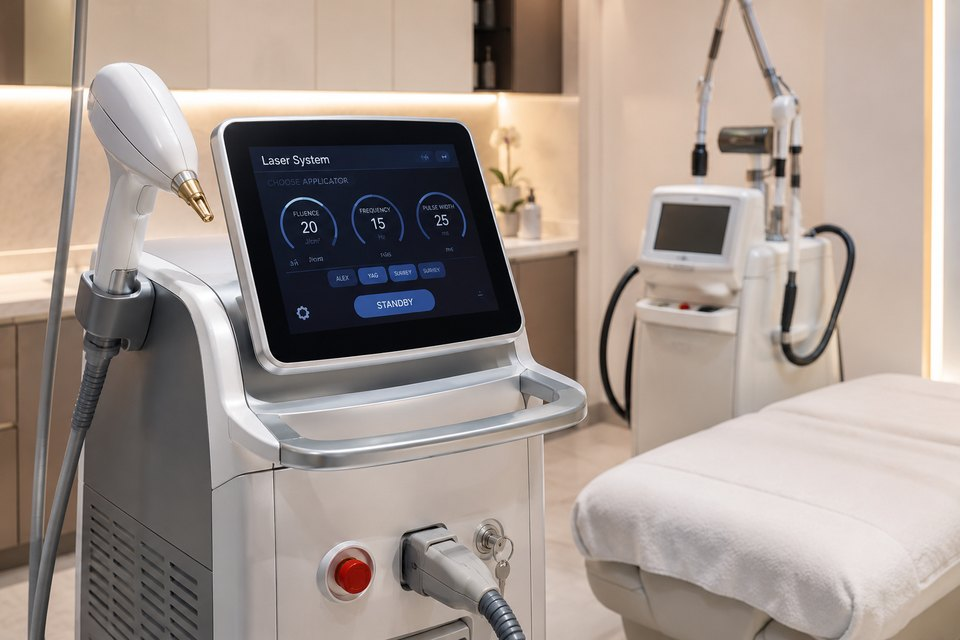
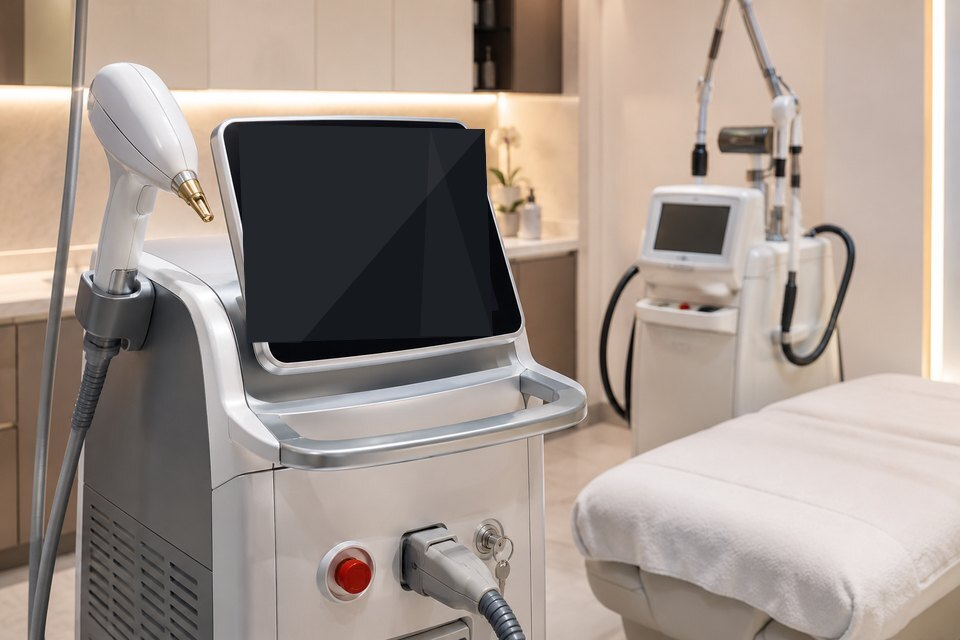
The Technology section shows equipment, and the console is switched off
The banner there was banner-ai.jpg — a phone, a selfie ring light and a
towel. tools/gen-images.mjs shows it was drawn for the AI-analysis section,
where a phone and a light are what a visitor uses to send a photograph in.
It had been placed above a paragraph that says the clinic's lasers carry
US-FDA 510(k) clearance, where a ring light reads as a claim the picture
cannot support. It is now unused.

In its place, banner-technology.jpg, cut from the lasers.jpg frame and
widened to the 1600x893 the other four banners use.

That frame needed a correction first. Its prompt asked for a console with
"its display switched off"; the model drew a lit screen instead, with a
model name, applicator buttons and invented settings — FLUENCE 20,
FREQUENCY 15, PULSE WIDTH 25. Lettering inside the picture and a screen
showing an interface are both forbidden by the rules at the top of
gen-images.mjs, written on 10 October 2026 after banners carrying claims had
to be withdrawn under the NMC advertising guidelines. The screen is painted
out in both the banner and in treatments/lasers.jpg, which carries the
Advanced Lasers card and had been showing those numbers on the live site.
The prompt is tightened and the episode recorded beside it.

treatments/*.jpg are edited in place and keep their names, so pricing.js now
versions them the way results.js and hero-ba.js version theirs.

Changed region(s): [[0.25, 0.1875, 0.5312, 0.5312]]

diff --git a/index.html b/index.html
@@ -44,7 +44,7 @@
   <link href="https://fonts.googleapis.com/css2?family=Anek+Telugu:wght@400;500;600;700;800&family=Poppins:wght@400;500;600;700;800&display=swap" rel="stylesheet" />
 
   <link rel="canonical" href="https://medicareskinandhairclinic.com/" />
-  <link rel="stylesheet" href="assets/css/style.css?v=202611100900" />
+  <link rel="stylesheet" href="assets/css/style.css?v=202611101200" />
 
   <!-- Structured data for Google (SEO). Live domain: https://medicareskinandhairclinic.com -->
   <script type="application/ld+json">
@@ -251,8 +251,8 @@
             <span class="ba2__badge"><svg class="ic" viewBox="0 0 24 24" aria-hidden="true"><path d="M20 13c0 5-3.5 7.5-7.66 8.95a1 1 0 0 1-.67-.01C7.5 20.5 4 18 4 13V6a1 1 0 0 1 1-1c2 0 4.5-1.2 6.24-2.72a1.17 1.17 0 0 1 1.52 0C14.51 3.81 17 5 19 5a1 1 0 0 1 1 1z"/><path d="m9 12 2 2 4-4"/></svg> మా క్లినిక్ రోగుల ఫలితాలు</span>
 
             <div class="ba2__stage" id="baStage" style="--p:50%">
-              <img class="ba2__img" id="baAfter" src="assets/img/hero/chemical-peel-after.jpg?v=202611100900" width="780" height="1040" alt="చికిత్స తరువాత — మొటిమలు &amp; మచ్చల చికిత్స, Medicare Skin &amp; Hair Clinic" fetchpriority="high" decoding="async">
-              <div class="ba2__clip"><img class="ba2__img" id="baBefore" src="assets/img/hero/chemical-peel-before.jpg?v=202611100900" width="780" height="1040" alt="చికిత్సకు ముందు — మొటిమలు &amp; మచ్చలు" fetchpriority="high" decoding="async"></div>
+              <img class="ba2__img" id="baAfter" src="assets/img/hero/chemical-peel-after.jpg?v=202611101200" width="780" height="1040" alt="చికిత్స తరువాత — మొటిమలు &amp; మచ్చల చికిత్స, Medicare Skin &amp; Hair Clinic" fetchpriority="high" decoding="async">
+              <div class="ba2__clip"><img class="ba2__img" id="baBefore" src="assets/img/hero/chemical-peel-before.jpg?v=202611101200" width="780" height="1040" alt="చికిత్సకు ముందు — మొటిమలు &amp; మచ్చలు" fetchpriority="high" decoding="async"></div>
 
               <span class="ba2__chip ba2__chip--b">BEFORE</span>
               <span class="ba2__chip ba2__chip--a">AFTER</span>
@@ -987,7 +987,7 @@
       <div class="container">
         <div class="section__head reveal">
           <span class="eyebrow eyebrow--center">Advanced Technology</span>
-          <img src="assets/img/banner-ai.jpg" class="section__banner reveal" alt="A phone and a ring light on a clinic counter" loading="lazy">
+          <img src="assets/img/banner-technology.jpg" class="section__banner reveal" alt="A dermatology laser console with its display switched off, beside a treatment couch" loading="lazy">
           <h2 class="section__title">International <span class="grad">Equipment &amp; Technology</span></h2>
           <p class="section__title-te">(అంతర్జాతీయ పరికరాలు &amp; టెక్నాలజీ)</p>
           <p class="section__lead">మా క్లినిక్లో వాడే పరికరాల వివరాలు ఇక్కడ ఇవ్వబడ్డాయి — వీటిలో పలు లేజర్లకు <strong>US-FDA 510(k) క్లియరెన్స్</strong> ఉంది. ప్రతి ప్రక్రియనూ అర్హత గల చర్మవైద్య నిపుణుల పర్యవేక్షణలోనే అందిస్తాం. ఇది పరికరాల గురించిన వాస్తవ సమాచారం మాత్రమే — ఫలితాల హామీ కాదు, వేరే క్లినిక్లతో పోలిక కాదు.</p>
@@ -1671,15 +1671,15 @@
     </div>
   </div>
 
-  <script src="assets/js/branches.js?v=202611100900"></script>
-  <script src="assets/js/results.js?v=202611100900"></script>
-  <script src="assets/js/pricing.js?v=202611100900"></script>
-  <script src="assets/js/smart-search.js?v=202611100900" defer></script>
-  <script src="assets/js/main.js?v=202611100900"></script>
-  <script src="assets/js/hero-ba.js?v=202611100900"></script>
-  <script src="assets/js/reviews.js?v=202611100900"></script>
-  <script src="assets/js/chatbot.js?v=202611100900"></script>
-  <script src="assets/js/ai-analysis.js?v=202611100900" defer></script>
+  <script src="assets/js/branches.js?v=202611101200"></script>
+  <script src="assets/js/results.js?v=202611101200"></script>
+  <script src="assets/js/pricing.js?v=202611101200"></script>
+  <script src="assets/js/smart-search.js?v=202611101200" defer></script>
+  <script src="assets/js/main.js?v=202611101200"></script>
+  <script src="assets/js/hero-ba.js?v=202611101200"></script>
+  <script src="assets/js/reviews.js?v=202611101200"></script>
+  <script src="assets/js/chatbot.js?v=202611101200"></script>
+  <script src="assets/js/ai-analysis.js?v=202611101200" defer></script>
   <script>
     /* Cookie / embed consent notice */
     (function () {

diff --git a/assets/js/pricing.js b/assets/js/pricing.js
@@ -867,6 +867,10 @@ window.MEDICARE_PRICING = {
 (function () {
   "use strict";
   var P = window.MEDICARE_PRICING;
+  /* The treatment photographs are edited in place and keep their names, so a
+     browser or CDN holding an older copy would go on showing it. Raise this
+     whenever a picture in assets/img/treatments/ is redrawn or corrected. */
+  var IMG_V = "?v=202611101200";
   var sig = document.getElementById("signatureList");
   var cats = document.getElementById("priceCategories");
   if (!P) return;
@@ -929,7 +933,7 @@ window.MEDICARE_PRICING = {
     sig.innerHTML = P.signature.map(function (s) {
       return '<article class="tx reveal">' +
         '<div class="tx__media">' +
-          '<img class="tx__img" src="assets/img/treatments/' + s.slug + '.jpg" alt="' + esc(s.name) + '" loading="lazy" onerror="this.style.display=\'none\'">' +
+          '<img class="tx__img" src="assets/img/treatments/' + s.slug + '.jpg' + IMG_V + '" alt="' + esc(s.name) + '" loading="lazy" onerror="this.style.display=\'none\'">' +
           '<span class="tx__ic">' + ic(s.icon) + '</span>' +
           (s.badge ? '<span class="tx__badge">' + esc(s.badge) + '</span>' : '') +
         '</div>' +
